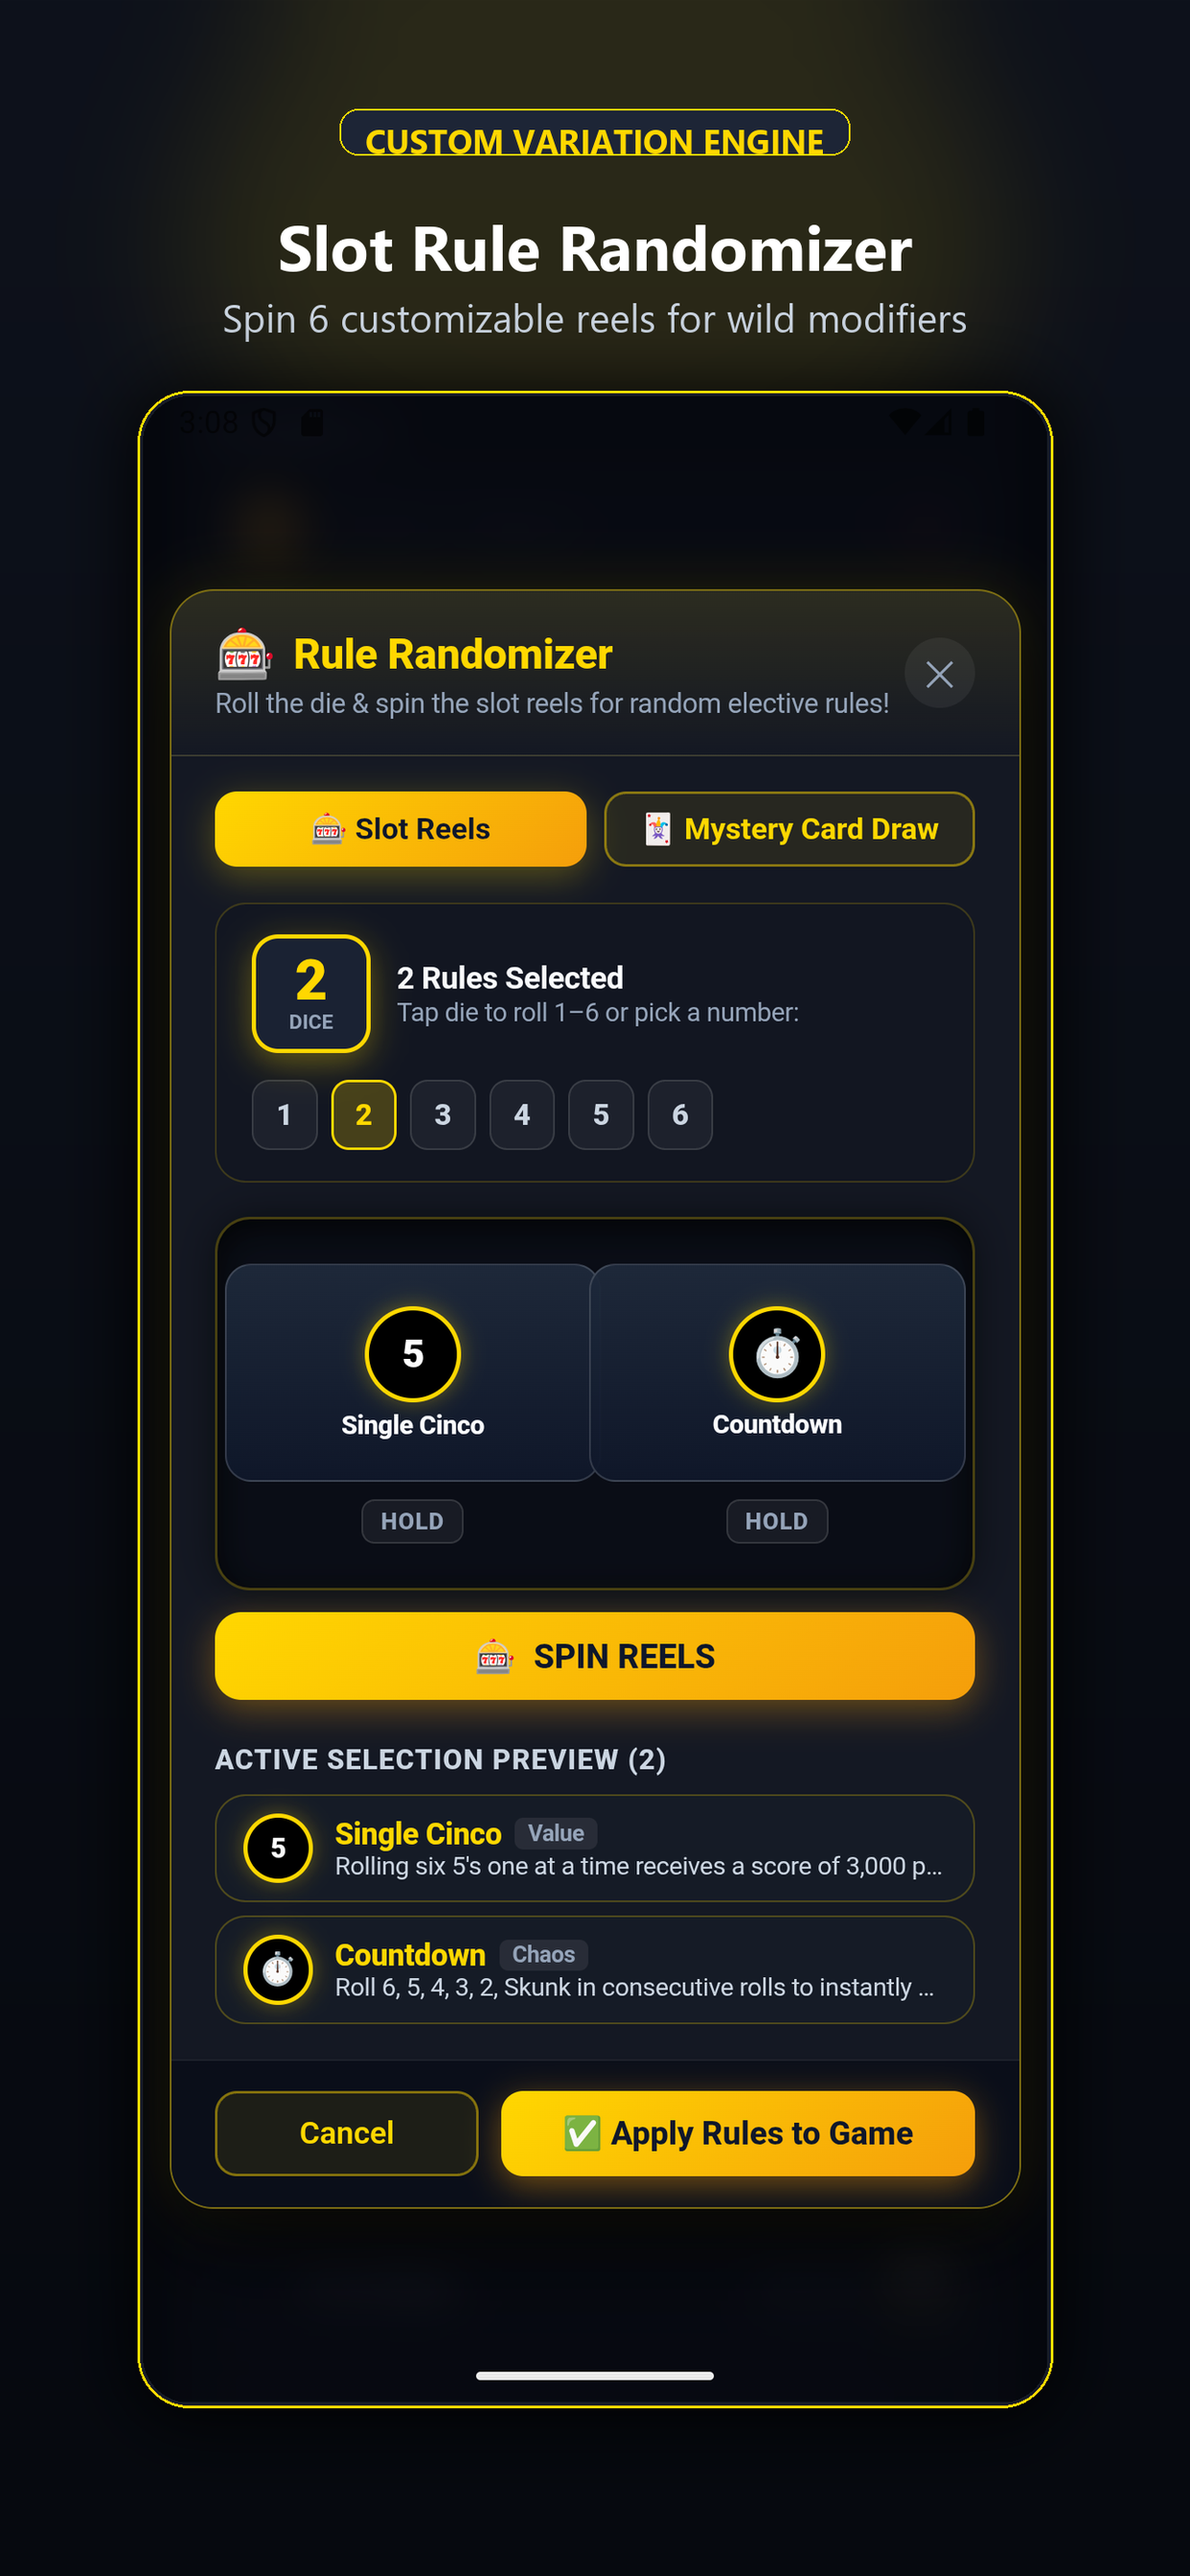
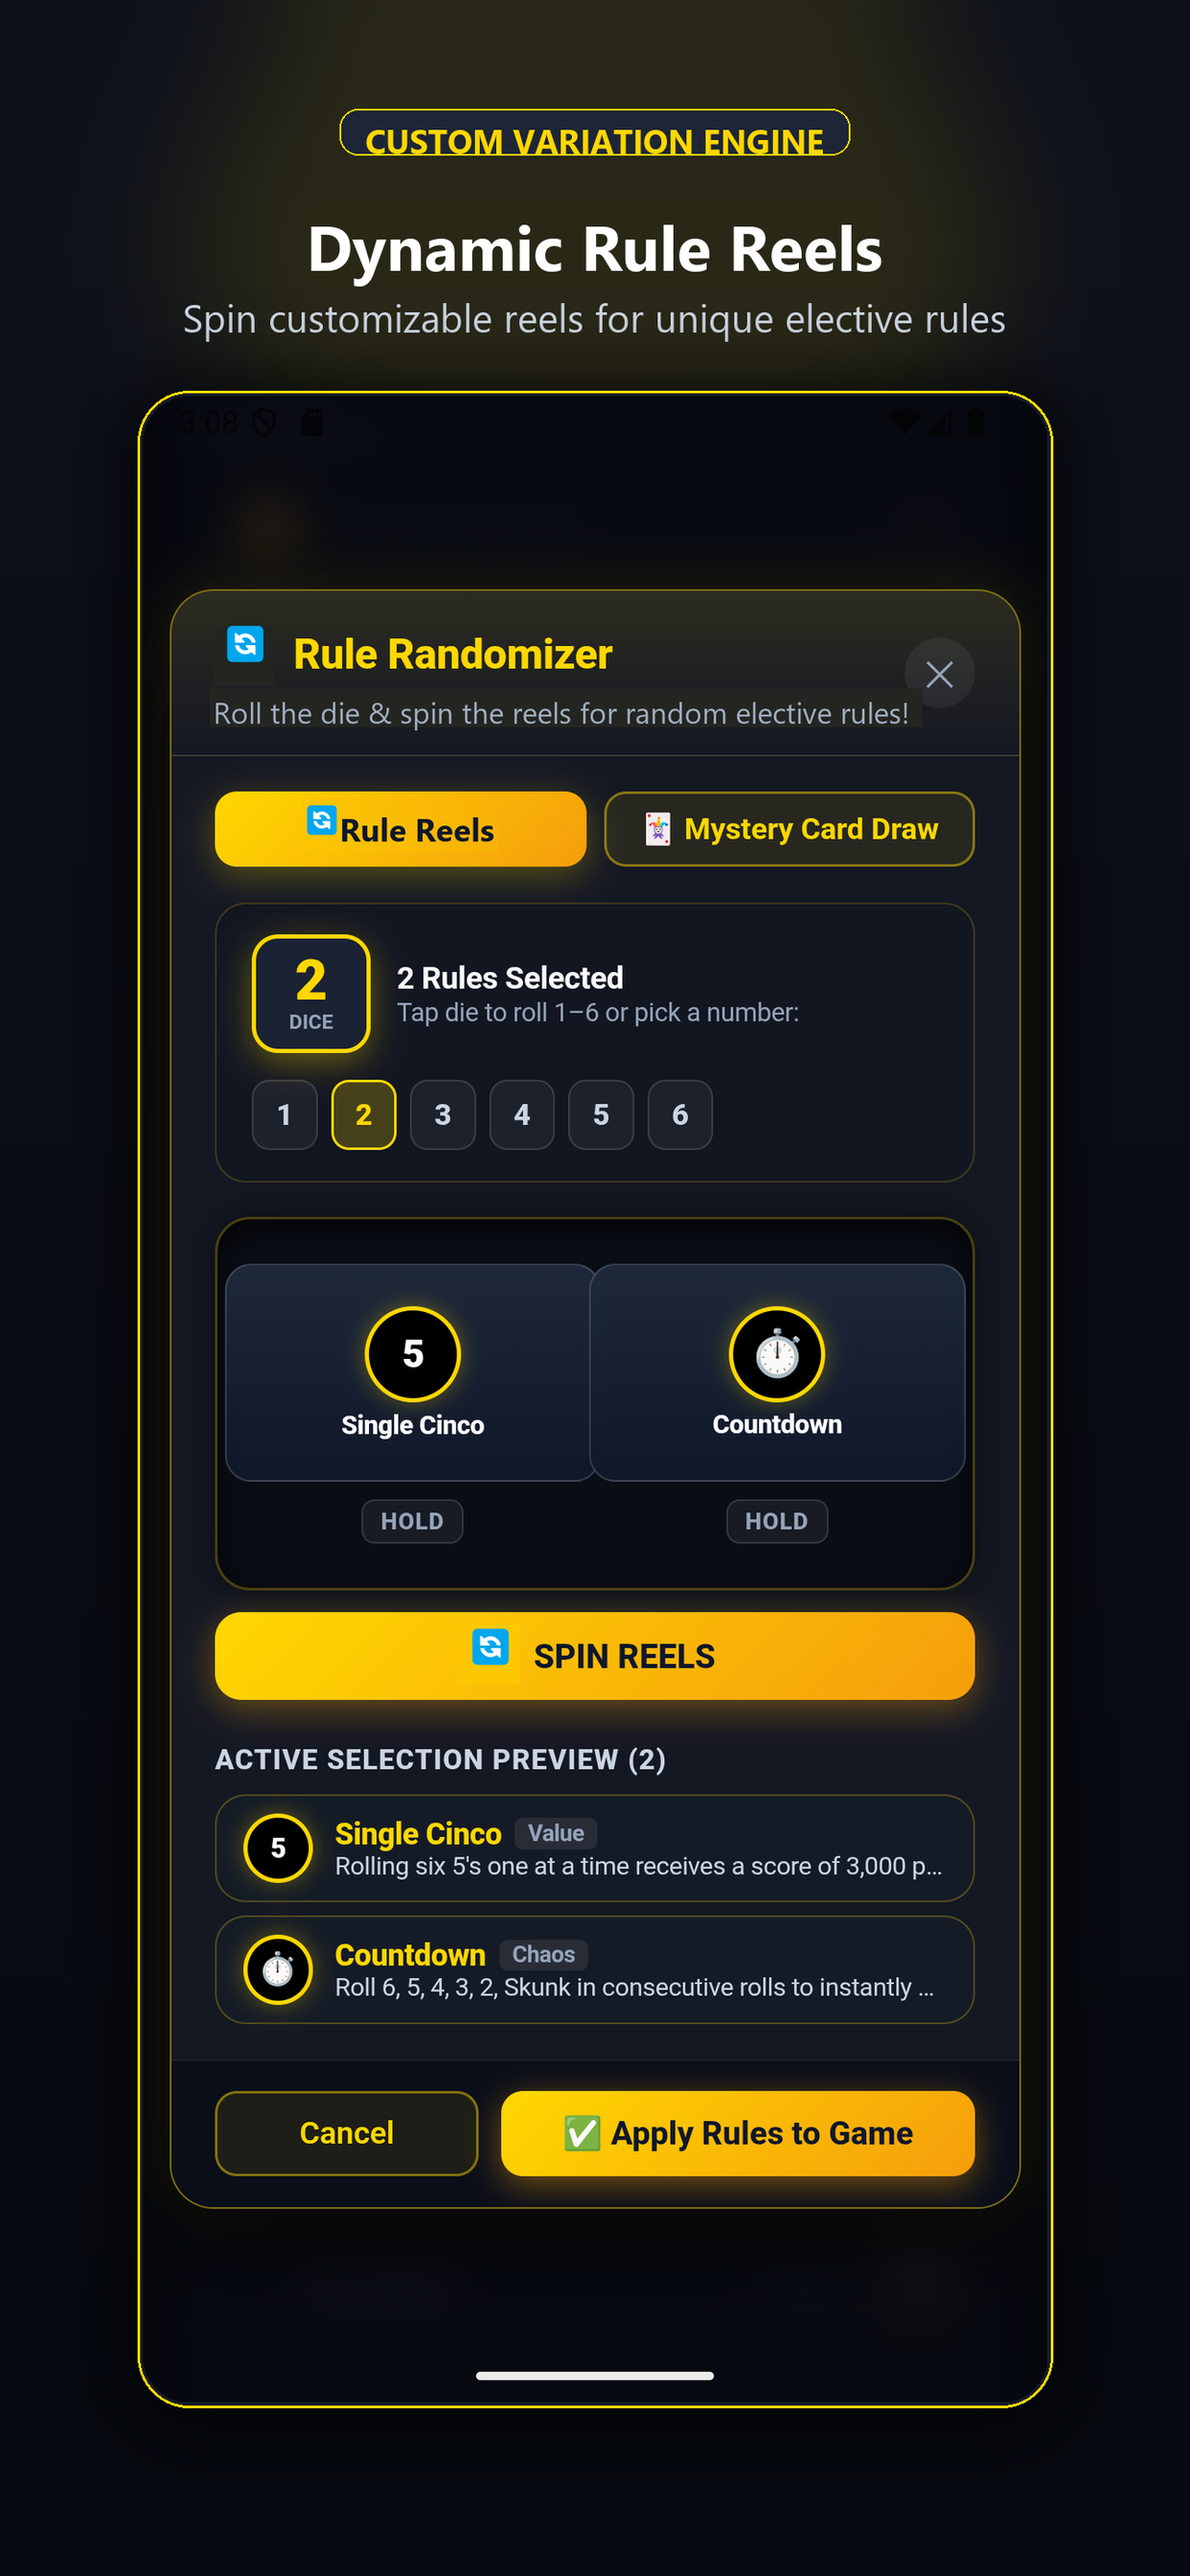
Release v1.0.1 (Build 2): Apple review fixes, dynamic platform links, de-casinoed reels, and remade store assets

diff --git a/src/RuleRandomizerModal.jsx b/src/RuleRandomizerModal.jsx
@@ -123,14 +123,15 @@ export const RULE_DEFINITIONS = [
 ];
 
 export default function RuleRandomizerModal({ open, onClose, currentRules, onApplyRules }) {
-  const [activeTab, setActiveTab] = useState('slots'); // 'slots' | 'cards'
-  const [numRules, setNumRules] = useState(3);
+  const urlTab = typeof window !== 'undefined' && new URLSearchParams(window.location.search).get('tab') === 'cards' ? 'cards' : 'slots';
+  const [activeTab, setActiveTab] = useState(urlTab); // 'slots' | 'cards'
+  const [numRules, setNumRules] = useState(urlTab === 'cards' ? 4 : 3);
   const [isRollingDie, setIsRollingDie] = useState(false);
-  const [dieDisplayValue, setDieDisplayValue] = useState(3);
+  const [dieDisplayValue, setDieDisplayValue] = useState(urlTab === 'cards' ? 4 : 3);
   const [isSpinning, setIsSpinning] = useState(false);
-  const [selectedRules, setSelectedRules] = useState([]);
+  const [selectedRules, setSelectedRules] = useState(urlTab === 'cards' ? [RULE_DEFINITIONS[0], RULE_DEFINITIONS[1], RULE_DEFINITIONS[2], RULE_DEFINITIONS[3]] : [RULE_DEFINITIONS[1], RULE_DEFINITIONS[2], RULE_DEFINITIONS[4]]);
   const [heldSlots, setHeldSlots] = useState({}); // { [slotIndex]: ruleKey }
-  const [cardsFlipped, setCardsFlipped] = useState([]);
+  const [cardsFlipped, setCardsFlipped] = useState(urlTab === 'cards' ? [true, true, true, true] : []);
   const [reelAnimations, setReelAnimations] = useState([]); // tracks spinning state per reel
   const [expandedRuleKeys, setExpandedRuleKeys] = useState({});
   const [zoomedCard, setZoomedCard] = useState(null); // { img, label }
@@ -138,6 +139,9 @@ export default function RuleRandomizerModal({ open, onClose, currentRules, onApp
   // Initialize with currently selected rules or defaults when opened
   useEffect(() => {
     if (open) {
+      if (urlTab === 'cards') {
+        setCardsFlipped([true, true, true, true]);
+      }
       const activeKeys = Object.keys(currentRules || {}).filter(k => currentRules[k]);
       const initialCount = activeKeys.length > 0 && activeKeys.length <= 6 ? activeKeys.length : 3;
       setNumRules(initialCount);
@@ -421,13 +425,13 @@ export default function RuleRandomizerModal({ open, onClose, currentRules, onApp
         }}>
           <div>
             <div style={{ display: 'flex', alignItems: 'center', gap: 8 }}>
-              <span style={{ fontSize: '1.4rem' }}>🎰</span>
+              <span style={{ fontSize: '1.4rem' }}>🔄</span>
               <h2 style={{ fontSize: '1.2rem', fontWeight: '800', margin: 0, color: 'var(--gold-primary)' }}>
                 Rule Randomizer
               </h2>
             </div>
             <div style={{ fontSize: '0.78rem', color: 'var(--text-muted)', marginTop: 2 }}>
-              Roll the die & spin the slot reels for random elective rules!
+              Roll the die & spin the reels for random elective rules!
             </div>
           </div>
           
@@ -463,7 +467,7 @@ export default function RuleRandomizerModal({ open, onClose, currentRules, onApp
               style={{ padding: '8px 12px', fontSize: '0.85rem', fontWeight: '700', borderRadius: '10px' }}
               onClick={() => { setActiveTab('slots'); triggerHaptic(ImpactStyle.Light); }}
             >
-              🎰 Slot Reels
+              🔄 Rule Reels
             </button>
             <button
               type="button"
@@ -603,7 +607,7 @@ export default function RuleRandomizerModal({ open, onClose, currentRules, onApp
                         }}
                       >
                         {isReelSpinning ? (
-                          <span style={{ fontSize: numRules >= 5 ? '1.4rem' : '1.8rem' }}>🎰</span>
+                          <span style={{ fontSize: numRules >= 5 ? '1.4rem' : '1.8rem' }}>🔄</span>
                         ) : (
                           renderShorthandBadge(rule, numRules >= 5 ? 36 : 42)
                         )}
@@ -657,7 +661,7 @@ export default function RuleRandomizerModal({ open, onClose, currentRules, onApp
                   }}
                   onClick={() => triggerRandomize(numRules)}
                 >
-                  <span>🎰</span>
+                  <span>🔄</span>
                   {isSpinning ? 'SPINNING REELS...' : 'SPIN REELS'}
                 </button>
               </div>

diff --git a/src/GameShopModal.jsx b/src/GameShopModal.jsx
@@ -1,10 +1,27 @@
 import React, { useState } from 'react';
+import { Capacitor } from '@capacitor/core';
 import hoj from './assets/hoj.png';
 import skunkdLogo from './assets/skunkd-logo.png';
 
 export default function GameShopModal({ open, onClose, isSupporter, onSupport }) {
   const [activeTab, setActiveTab] = useState('shop'); // 'shop' | 'community'
   const [thankYouMessage, setThankYouMessage] = useState('');
+
+  const currentPlatform = Capacitor.getPlatform();
+  const isIos = currentPlatform === 'ios';
+  const isAndroid = currentPlatform === 'android';
+
+  const mobilePlatformBadge = isIos 
+    ? 'App Store' 
+    : isAndroid 
+      ? 'Google Play' 
+      : 'iOS & Android';
+
+  const mobileButtonText = isIos
+    ? 'Play Mobile Game on App Store'
+    : isAndroid
+      ? 'Play Mobile Game on Google Play'
+      : 'Play Mobile Game on App Store & Google Play';
 
   if (!open) return null;
 
@@ -245,7 +262,7 @@ export default function GameShopModal({ open, onClose, isSupporter, onSupport })
                   📱 Digital Mobile Game
                 </span>
                 <span style={{ fontSize: '0.7rem', padding: '2px 8px', background: 'rgba(56, 189, 248, 0.2)', color: '#38bdf8', borderRadius: '10px', fontWeight: '700' }}>
-                  iOS & Android
+                  {mobilePlatformBadge}
                 </span>
               </div>
               <h3 style={{ margin: 0, fontSize: '1.15rem', color: '#fff' }}>
@@ -276,7 +293,7 @@ export default function GameShopModal({ open, onClose, isSupporter, onSupport })
                 }}
               >
                 <span>📲</span>
-                <span>Play Mobile Game on App Store & Google Play</span>
+                <span>{mobileButtonText}</span>
                 <span style={{ fontSize: '1.1rem' }}>➔</span>
               </button>
             </div>

diff --git a/src/App.jsx b/src/App.jsx
@@ -258,6 +258,31 @@ export default function App() {
     // Check if the app should open directly (from URL parameter)
     const urlParams = new URLSearchParams(window.location.search);
     const shouldOpenDirectly = urlParams.get('open') === 'true';
+    const viewParam = urlParams.get('view');
+    
+    if (viewParam) {
+      setAppOpened(true);
+      if (viewParam === 'randomizer') {
+        setShowRuleRandomizer(true);
+      } else if (viewParam === 'setup') {
+        setGameStarted(false);
+      } else if (viewParam === 'scoreboard') {
+        setGameStarted(true);
+        setPlayers(['Dusty', 'Ken']);
+        setScores([3500, 2000]);
+        setCurrentPlayerIdx(0);
+        setTargetScore(10000);
+        setElectiveRules({
+          mulligan: true,
+          sixTwoEven: true
+        });
+        setPowerUpUsage({
+          'Dusty': { mulligan: false, sixTwoEven: false },
+          'Ken': { mulligan: true, sixTwoEven: false }
+        });
+      }
+      return;
+    }
     
     if (shouldOpenDirectly) {
       setAppOpened(true);
@@ -1285,9 +1310,9 @@ export default function App() {
                   whiteSpace: 'nowrap'
                 }}
                 onClick={() => setShowRuleRandomizer(true)}
-                title="Roll a die and spin slot reels for random rules"
+                title="Roll a die and spin reels for random rules"
               >
-                <span>🎰</span>
+                <span>🔄</span>
                 <span>Randomize Rules</span>
               </button>
             </div>

diff --git a/build/index.html b/build/index.html
@@ -1,1 +1,1 @@
-<!doctype html><html lang="en"><head><meta charset="utf-8"/><link rel="icon" href="/favicon.ico"/><meta name="viewport" content="width=device-width,initial-scale=1,maximum-scale=1,user-scalable=no,viewport-fit=cover"/><meta name="theme-color" content="#111"/><meta name="description" content="SKUNK'D Scorecard - Playful scorekeeping for SKUNK'D dice game."/><title>SKUNK'D Scorecard</title><script defer="defer" src="/static/js/main.7140640a.js"></script><link href="/static/css/main.124cd898.css" rel="stylesheet"></head><body><noscript>You need to enable JavaScript to run this app.</noscript><div id="root"></div></body></html>
+<!doctype html><html lang="en"><head><meta charset="utf-8"/><link rel="icon" href="/favicon.ico"/><meta name="viewport" content="width=device-width,initial-scale=1,maximum-scale=1,user-scalable=no,viewport-fit=cover"/><meta name="theme-color" content="#111"/><meta name="description" content="SKUNK'D Scorecard - Playful scorekeeping for SKUNK'D dice game."/><title>SKUNK'D Scorecard</title><script defer="defer" src="/static/js/main.b0e24c21.js"></script><link href="/static/css/main.124cd898.css" rel="stylesheet"></head><body><noscript>You need to enable JavaScript to run this app.</noscript><div id="root"></div></body></html>

diff --git a/scripts/generate_store_assets.py b/scripts/generate_store_assets.py
@@ -231,28 +231,28 @@ def create_ipad_screenshot(ss_file, tag, title, subtitle, out_name_base):
 def main():
     screens = [
         (
-            "both_sprays_scoreboard.png",
+            "final_sprays_verified.png",
             "Official Companion App",
             "Interactive Live Scoreboard",
             "Track turns, sprays, banked points & instant totals",
             "01_scoreboard"
         ),
         (
-            "randomizer_rolled.png",
+            "randomizer_clean_final.png",
             "Custom Variation Engine",
-            "Slot Rule Randomizer",
-            "Spin 6 customizable reels for wild modifiers",
+            "Dynamic Rule Reels",
+            "Spin customizable reels for unique elective rules",
             "02_rule_randomizer"
         ),
         (
-            "cards_dealt.png",
+            "cards_dealt_clean.png",
             "Cards & Dice Modes",
             "Real-Time Card Deals",
             "Flip cards with suspense and track hand actions",
             "03_cards_mode"
         ),
         (
-            "setup_screen.png",
+            "setup_rules_clean.png",
             "Fast Match Setup",
             "Flexible Game Modes",
             "Custom player line-ups, rulesets, and target scores",

diff --git a/store_assets/store_listing_copy.md b/store_assets/store_listing_copy.md
@@ -29,8 +29,8 @@ KEY FEATURES:
 • Real-time spray counts, banking calculations, and lead tracking
 • Instant multiplier math and potential score previews
 
-🎰 6-REEL SLOT RULE RANDOMIZER
-• Bring fresh excitement to every round with our built-in slot randomizer!
+🎲 6-REEL RULE RANDOMIZER
+• Bring fresh excitement to every round with our built-in rule randomizer!
 • Spin 6 customizable reels for unique rules, hilarious modifiers, and surprise twists
 • Lock and hold specific reels to customize your custom game variations
 
@@ -64,9 +64,9 @@ Dice & Cards Companion App
 
 ### Promotional Text (max 170 characters)
 ```
-The official companion app for SKUNK'D! Track turns, sprays, banked points, deal cards, and spin the 6-reel slot randomizer for wild game variations.
+The official companion app for SKUNK'D! Track turns, sprays, banked points, deal cards, and spin the 6-reel rule randomizer for wild game variations.
 ```
-*(148 characters)*
+*(143 characters)*
 
 ### Keywords (max 100 characters comma separated, no spaces after commas)
 ```
